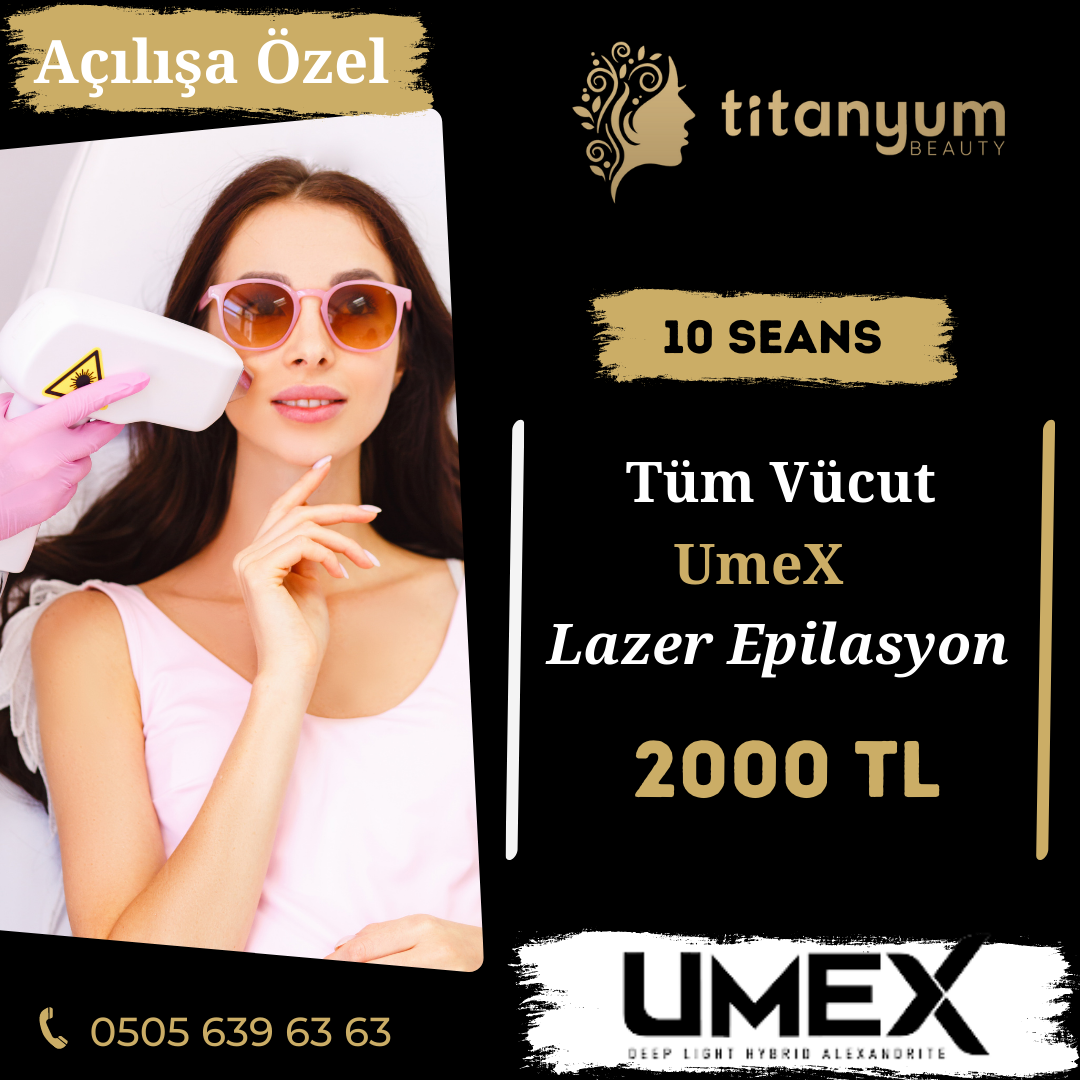
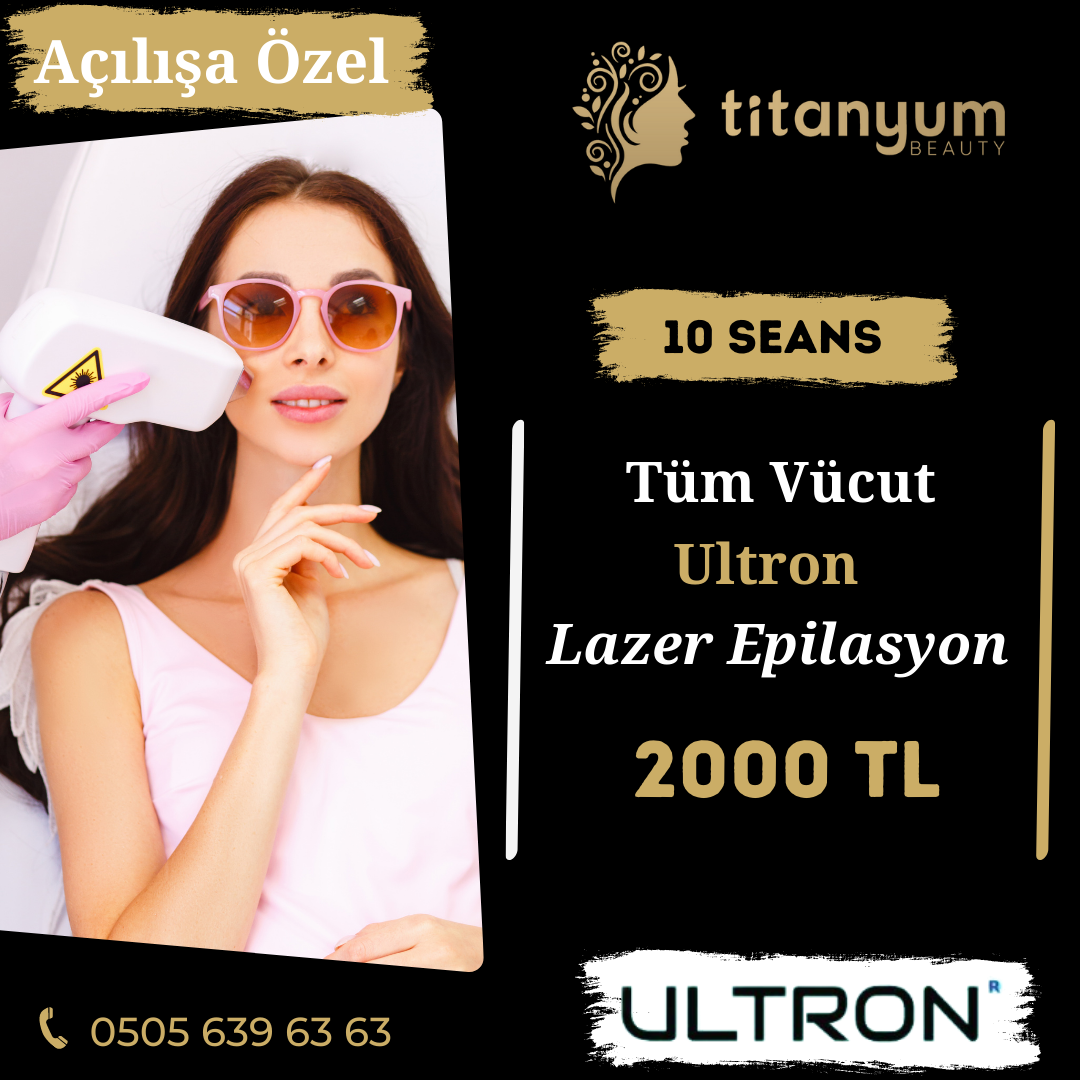
image compress

Changed region(s): [[0.4583, 0.8556, 1.0, 1.0], [0.6417, 0.4889, 0.7944, 0.55]]

diff --git a/src/components/slider/owlcarousel/Owl.js b/src/components/slider/owlcarousel/Owl.js
@@ -5,12 +5,12 @@ import 'owl.carousel/dist/assets/owl.carousel.min.css'
 import 'owl.carousel/dist/assets/owl.theme.default.min.css'
 import { NavigateBeforeSharp } from '@material-ui/icons';
 
-import o2 from "../owlcarousel/owlIcons/2.png";
-import o3 from "../owlcarousel/owlIcons/3.png";
-import o4 from "../owlcarousel/owlIcons/4.png";
-import o5 from "../owlcarousel/owlIcons/5.png";
-import o6 from "../owlcarousel/owlIcons/6.png";
-import o7 from "../owlcarousel/owlIcons/7.png";
+import o2 from "../owlcarousel/owlIcons/2.webp";
+import o3 from "../owlcarousel/owlIcons/3.webp";
+import o4 from "../owlcarousel/owlIcons/4.webp";
+import o5 from "../owlcarousel/owlIcons/5.webp";
+import o6 from "../owlcarousel/owlIcons/6.webp";
+import o7 from "../owlcarousel/owlIcons/7.webp";
 
 
 
@@ -57,7 +57,7 @@ export default function Owl() {
             
             <div className="item owl-slider">
                 <div className="owlCarouselTemp">
-                    <img src={o2} className="owlCarouselImage" alt="Şanlıurfa Titanyum Beauty Saloon" title="Şanlıurfa Titanyum Beauty Saloon"></img>
+                    <img src={o2} className="owlCarouselImage" alt="Şanlıurfa Titanyum Beauty Saloon" loading="lazy" title="Şanlıurfa Titanyum Beauty Saloon"></img>
                    <p className="owlCarouselContent">Lazer Epilasyon</p>
                </div>
                 
@@ -67,14 +67,14 @@ export default function Owl() {
 
             <div className="item owl-slider">
                 <div className="owlCarouselTemp">
-                    <img src={o3} className="owlCarouselImage" alt="Şanlıurfa Titanyum Beauty Saloon" title="Şanlıurfa Titanyum Beauty Saloon"></img>
+                    <img src={o3} className="owlCarouselImage" alt="Şanlıurfa Titanyum Beauty Saloon" loading="lazy" title="Şanlıurfa Titanyum Beauty Saloon"></img>
                    <p className="owlCarouselContent">Medikal Cilt Bakımı</p>
                </div> 
             </div>
 
             <div className="item owl-slider">
                 <div className="owlCarouselTemp">
-                    <img src={o4} className="owlCarouselImage" alt="Şanlıurfa Titanyum Beauty Saloon" title="Şanlıurfa Titanyum Beauty Saloon"></img>
+                    <img src={o4} className="owlCarouselImage" alt="Şanlıurfa Titanyum Beauty Saloon" loading="lazy" title="Şanlıurfa Titanyum Beauty Saloon"></img>
                    <p className="owlCarouselContent">Microblading</p>
                </div> 
             </div>
@@ -83,21 +83,21 @@ export default function Owl() {
 
             <div className="item owl-slider">
                 <div className="owlCarouselTemp">
-                    <img src={o5} className="owlCarouselImage" alt="Şanlıurfa Titanyum Beauty Saloon" title="Şanlıurfa Titanyum Beauty Saloon"></img>
+                    <img src={o5} className="owlCarouselImage" alt="Şanlıurfa Titanyum Beauty Saloon" loading="lazy" title="Şanlıurfa Titanyum Beauty Saloon"></img>
                    <p className="owlCarouselContent">Hydrafacial Cilt Bakımı</p>
                </div> 
             </div>
 
             <div className="item owl-slider">
                 <div className="owlCarouselTemp">
-                    <img src={o6} className="owlCarouselImage" alt="Şanlıurfa Titanyum Beauty Saloon" title="Şanlıurfa Titanyum Beauty Saloon"></img>
+                    <img src={o6} className="owlCarouselImage" alt="Şanlıurfa Titanyum Beauty Saloon" loading="lazy" title="Şanlıurfa Titanyum Beauty Saloon"></img>
                    <p className="owlCarouselContent">Kavitasyon</p>
                </div> 
             </div>
 
             <div className="item owl-slider">
                 <div className="owlCarouselTemp">
-                    <img src={o7} className="owlCarouselImage" alt="Şanlıurfa Titanyum Beauty Saloon" title="Şanlıurfa Titanyum Beauty Saloon"></img>
+                    <img src={o7} className="owlCarouselImage" alt="Şanlıurfa Titanyum Beauty Saloon" loading="lazy" title="Şanlıurfa Titanyum Beauty Saloon"></img>
                    <p className="owlCarouselContent">Kirpik Lifting</p>
                </div> 
             </div>

diff --git a/src/components/footer/Foooter.js b/src/components/footer/Foooter.js
@@ -110,7 +110,7 @@ export default class Foooter extends Component {
               <FacebookIcon className="icon" style={{fontSize:"24px"}}/>
             </a>
             <a
-              href="https://www.instagram.com/"
+              href="https://www.instagram.com/titanyum.beauty.sanliurfa"
               target="_blank"
               rel="noopener noreferrer"
               style={{ float: "left", textIndent: "10px" }}
@@ -191,7 +191,7 @@ export default class Foooter extends Component {
 
 
           <div className="roof-location">
-              <a href="https://goo.gl/maps/7ryRSpGz7PPH1rZW9" className="location_float" target="_blank" rel="noopener noreferrer">
+              <a href="https://goo.gl/maps/UFT5qkYYV8tXavSYA" className="location_float" target="_blank" rel="noopener noreferrer">
                   <LocationOnIcon className="location-icon"/>
               </a>
           </div>

diff --git a/src/components/topluhizmet/TopluHizmet.js b/src/components/topluhizmet/TopluHizmet.js
@@ -1,11 +1,11 @@
 import Taslak from "../taslakhizmet/Taslak.js";
 import "./TopluHizmet.css";
-import m1 from "./hizmetFotolar/bl1.jpg";
+import m1 from "./hizmetFotolar/bl1.webp";
 import m2 from "./hizmetFotolar/bl2.webp";
-import m3 from "./hizmetFotolar/bl3.jpg";
-import m4 from "./hizmetFotolar/bl4.jpg";
-import m5 from "./hizmetFotolar/bl5.jpg";
-import m6 from "./hizmetFotolar/bl6.jpg";
+import m3 from "./hizmetFotolar/bl3.webp";
+import m4 from "./hizmetFotolar/bl4.webp";
+import m5 from "./hizmetFotolar/bl5.webp";
+import m6 from "./hizmetFotolar/bl6.webp";
 import React, { Component } from "react";
 import { TextField } from "@material-ui/core";
 import { Button } from "@material-ui/core";

diff --git a/src/components/header/Navbar.js b/src/components/header/Navbar.js
@@ -49,7 +49,7 @@ export default class Navbar extends Component {
             <ul class="submenu">
 
               <li><a href="/medikal-cilt-bakimi" class="menu-link">Medikal Cilt Bakımı</a></li>
-              <li><a href="/umex-lazer-epilasyon" class="menu-link">UmeX Lazer Epilasyon</a></li>
+              <li><a href="/ultron-lazer-epilasyon" class="menu-link">Ultron Lazer Epilasyon</a></li>
               <li><a href="/hydrafacial-cilt-bakimi" class="menu-link">Hydrafacial Cilt Bakımı</a></li>
               <li><a href="/g5-kavitasyon" class="menu-link">G5 Masajı - Kavitasyon</a></li>
               <li><a href="/kirpik-lifting" class="menu-link">Kirpik Lifting</a></li>

diff --git a/src/components/klinik/KlinikComp.js b/src/components/klinik/KlinikComp.js
@@ -11,7 +11,7 @@ render() {
 
       <div className="item owl-slider">
           <div className="owlCarouselTempKlinik">
-              <img src={kampanyaResim} className="owlCarouselImageKlinik" alt="Şanlıurfa Lazer Epilasyon" title="Şanlıurfa Lazer Epilasyon"></img>
+              <img src={kampanyaResim} className="owlCarouselImageKlinik" loading="lazy" alt="Şanlıurfa Lazer Epilasyon" title="Şanlıurfa Lazer Epilasyon"></img>
           </div>
           <div className="whatsapp_temp">
                 <a href={kampanyaAd} className="whatsapp_float_mesaj" target="_blank" rel="noopener noreferrer">Kampanya Hakkında Detaylı Bilgi İçin Tıklayın</a>

diff --git a/src/components/taslakhizmet/Taslak.js b/src/components/taslakhizmet/Taslak.js
@@ -8,7 +8,7 @@ render() {
      const {taslakphoto,taslaktitle,taslaktext,taslaklink}=this.props;
      return (
         <div class="image">
-                <img src={taslakphoto} title="Şanlıurfa Titanyum Beauty Saloon" style={{width:"100%",height:"30rem"}}></img>
+                <img src={taslakphoto} title="Şanlıurfa Titanyum Beauty Saloon" loading="lazy" style={{width:"100%",height:"30rem"}}></img>
                 <div class="details">
                         <h2 className="serviceTitle">{taslaktitle}</h2>
                         <p>{taslaktext}</p>

diff --git a/src/App.js b/src/App.js
@@ -47,7 +47,7 @@ function App() {
            
             
             <Route exact path="/medikal-cilt-bakimi" component={Medikal}/>
-            <Route exact path="/umex-lazer-epilasyon" component={Tum}/>
+            <Route exact path="/ultron-lazer-epilasyon" component={Tum}/>
             <Route exact path="/hydrafacial-cilt-bakimi" component={Hydrafacial}/>
             <Route exact path="/g5-kavitasyon" component={G5}/>
             <Route exact path="/kirpik-lifting" component={KirpikLifting}/>
